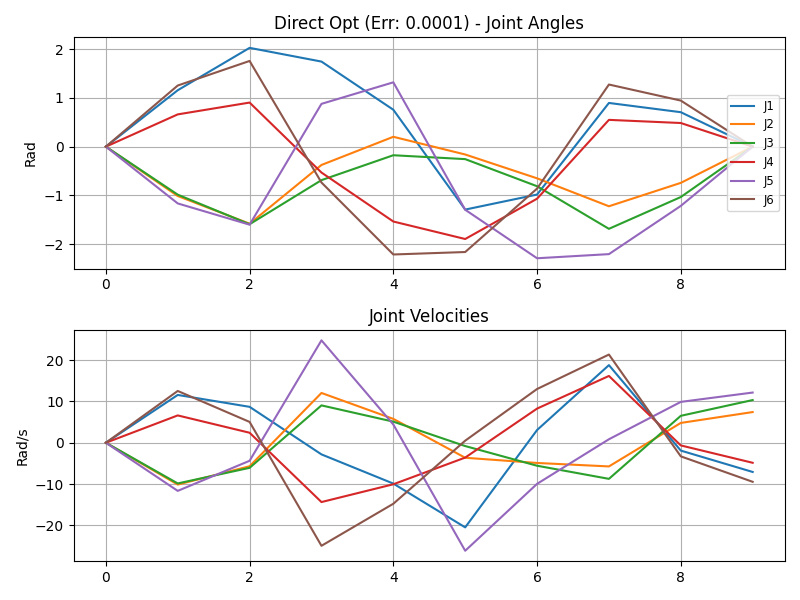
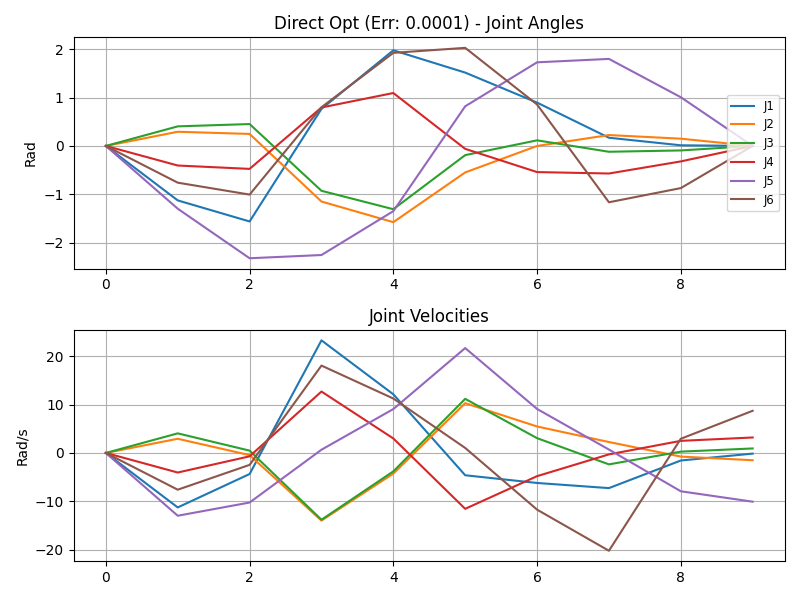
opt nn

diff --git a/space_robot_planning/optimize_nn.py b/space_robot_planning/optimize_nn.py
@@ -107,13 +107,27 @@ def main():
     
     print(f"\n--- [Task 1] Fixed Goal Optimization with {model_type.upper()} Init ---")
     
-    # 3. NN을 이용한 initial guess 계산
+    # 3. NN을 이용한 initial guess 계산 + 이후 gradient 최적화까지 시간을 측정
+    #    (로봇 로드 등은 포함하지 않고, NN inference + optimize 전체를 포함)
+    start_time = time.time()
+
     with torch.no_grad():
         condition = torch.cat([q0_start, q0_goal], dim=1)
         if model_type == 'cvae':
-            # CVAE: z 샘플링 후 decode
-            z = torch.randn(1, LATENT_DIM, device=device)
-            init_waypoints = nn_model.decode(condition, z)
+            # CVAE: 여러 번 (예: 100번) 샘플링 후, 가장 낮은 physics loss를 주는 궤적 선택
+            num_samples = 100
+            best_loss = None
+            best_wp = None
+            for i in range(num_samples):
+                z = torch.randn(1, LATENT_DIM, device=device)
+                wp_candidate = nn_model.decode(condition, z)
+                loss_candidate = physics.calculate_loss(wp_candidate, q0_start, q0_goal)
+                loss_val = loss_candidate.item()
+                if best_loss is None or loss_val < best_loss:
+                    best_loss = loss_val
+                    best_wp = wp_candidate
+            print(f"[CVAE Init] Selected best of {num_samples} samples with loss {best_loss:.6f}")
+            init_waypoints = best_wp
         else:
             # MLP: deterministic forward
             init_waypoints = nn_model(condition)
@@ -129,9 +143,6 @@ def main():
     iterations = 200  # 최대 반복 횟수
     loss_history = []
     stop_threshold = 1e-4  # 손실이 이 값 아래로 떨어지면 조기 종료
-
-    # === 여기서부터 시간 측정: NN forward, 로봇 로드 등은 포함 X ===
-    start_time = time.time()
     
     for i in range(iterations):
         optimizer.zero_grad()
